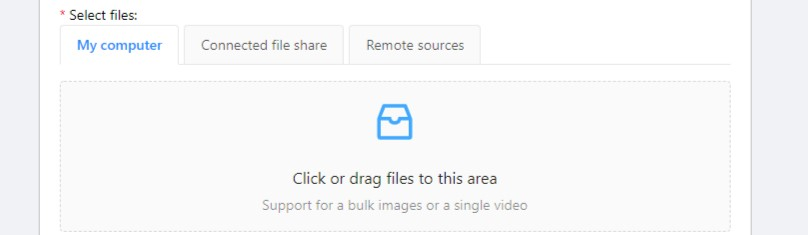
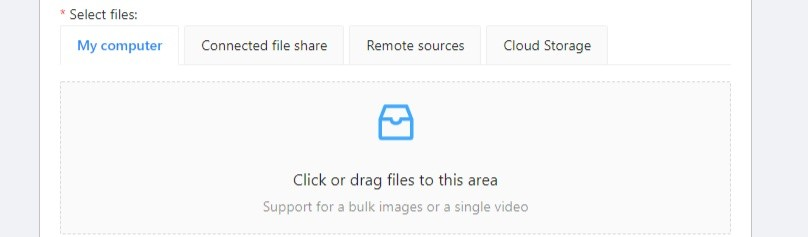
Documentation update, added info about the cloud storage UI (#3724)

diff --git a/site/content/en/docs/manual/basics/attach-cloud-storage.md b/site/content/en/docs/manual/basics/attach-cloud-storage.md
@@ -1,0 +1,62 @@
+---
+title: 'Attach cloud storage'
+linkTitle: 'Attach cloud storage'
+weight: 21
+description: 'Instructions on how to attach cloud storage using UI'
+---
+
+In CVAT you can use AWS-S3 and Azure Blob Container cloud storages to store image datasets for your tasks.
+Initially you need to create a manifest file for your image dataset. Information on how to do that is available
+on the [Simple command line to prepare dataset manifest file](/docs/manual/advanced/dataset_manifest) page.
+
+After the manifest file has been created, you can upload it and your dataset to an AWS-S3 or
+Azure Blob Container cloud storage.
+
+After that you will be able to attach a cloud storage. To do this, press the `Attach new cloud storage`
+button on the `Cloud storages` page and fill out the following form:
+
+![](/images/image228.jpg)
+
+- `Display name` - the display name of the cloud storage.
+- `Description` (optional) - description of the cloud storage, appears when you click on the `?` button
+of an item on cloud storages page.
+- `Provider` - choose provider of the cloud storage:
+
+  - [AWS-S3](https://docs.aws.amazon.com/AmazonS3/latest/userguide/GetStartedWithS3.html):
+
+    - `Bucket` - cloud storage bucket name
+
+    - [`Authorization type`](https://docs.aws.amazon.com/AmazonS3/latest/userguide/access-control-best-practices.html):
+
+      - `Key id and secret access key pair`:
+        - `ACCESS KEY ID`
+        - `SECRET ACCESS KEY ID`
+
+      - `Anonymous access`
+
+    - `Region` - here you can choose a region from the list or add a new one. To get more information click
+    on [`?`](https://docs.aws.amazon.com/AWSEC2/latest/UserGuide/using-regions-availability-zones.html#concepts-available-regions)
+
+    </br>
+
+  - [Azure Blob Container](https://docs.microsoft.com/en-us/azure/storage/blobs/):
+
+    - `Container name` - name of the cloud storage container
+
+      - `Authorization type`:
+
+        - [`Account name and SAS token`](https://docs.microsoft.com/en-us/azure/cognitive-services/translator/document-translation/create-sas-tokens?tabs=blobs):
+
+          - `Account name`
+          - `SAS token`
+
+        - [`Anonymous access`](https://docs.microsoft.com/en-us/azure/storage/blobs/anonymous-read-access-configure?tabs=portal)
+          - `Account name`
+
+    </br>
+- `Manifest` - the path to the manifest file on your cloud storage.
+You can add multiple file manifests using the `Add manifest` button.
+For more information click on [`?`](/docs/manual/advanced/dataset_manifest/).
+
+To publish the cloud storage, click `submit`, after which it will be available on
+the [Cloud storages page](/docs/manual/basics/cloud-storages/).

diff --git a/site/content/en/docs/manual/basics/cloud-storages.md b/site/content/en/docs/manual/basics/cloud-storages.md
@@ -1,0 +1,23 @@
+---
+title: 'Cloud storages page'
+linkTitle: 'Cloud storages page'
+weight: 20
+description: 'Overview of the cloud storages page.'
+---
+
+![](/images/image227.jpg)
+
+The cloud storages page contains elements, each of them relating to a separate cloud storage. 
+Each element contains: preview, cloud storage name, provider, creation and update info, status,
+`?` button for displaying the description and the actions menu.
+
+Each button in the action menu is responsible for a specific function:
+- `Update` — update this cloud storage
+- `Delete` — delete cloud storage.
+
+![](/images/cloud_storage_icon.jpg)
+
+This preview will appear when it is impossible to get a real preview (e.g. storage is empty or
+invalid credentials were used).
+
+Click the `Attach a new storage` button to [attach a new storage](/docs/manual/basics/attach-cloud-storage/).

diff --git a/site/content/en/docs/manual/basics/creating_an_annotation_task.md b/site/content/en/docs/manual/basics/creating_an_annotation_task.md
@@ -76,6 +76,9 @@ If you select tab `Connected file share` you can choose files for annotation fro
 If you select ` Remote source` , you'll see a field where you can enter a list of URLs (one URL per line).
 If you upload a video or dataset with images and select `Use cache` option, you can attach a `manifest.jsonl` file.
 You can find how to prepare it [here](/docs/manual/advanced/dataset_manifest/).
+If you select the `Cloud Storage` tab, you can select a cloud storage (for this type the cloud storage name),
+after that choose the manifest file and select the required files.
+For more information on how to attach cloud storage, see [attach cloud storage](/docs/manual/basics/attach-cloud-storage/)
 
 ![](/images/image127.jpg)
 
